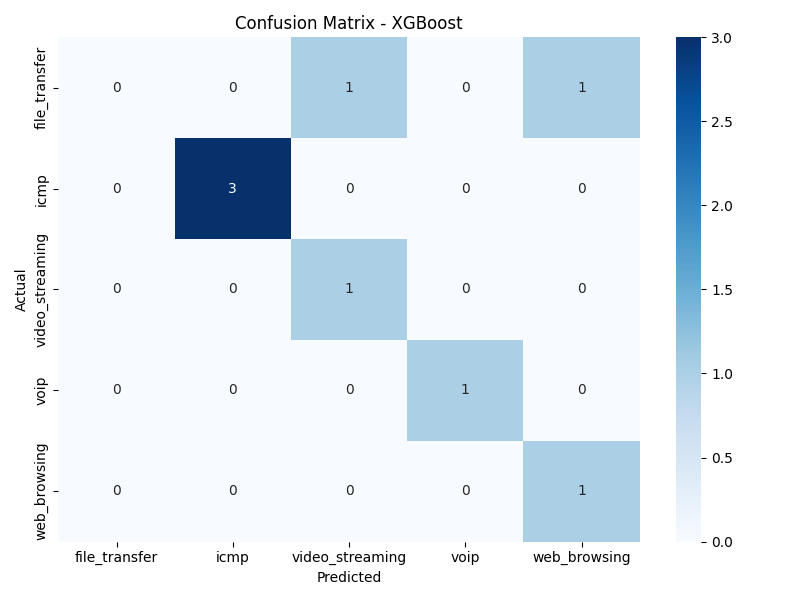
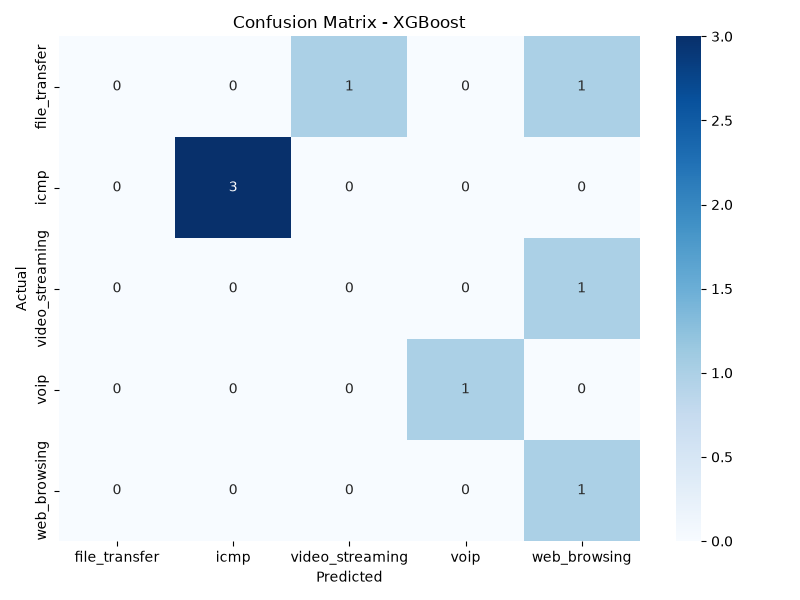
ml-engineer: add predict.py, retrained clean model, updated confusion matrix

diff --git a/ml-engineer/predict.py b/ml-engineer/predict.py
@@ -1,0 +1,200 @@
+"""
+predict.py
+----------
+ML Engineer - SIH 2026 (PS 26160)
+
+Purpose:
+    This is the handoff file for the Backend Developer.
+    Give them this file + the models/ folder.
+    They call predict_from_pcap() or predict_from_features()
+    and get back a traffic class + confidence score.
+
+Usage (Backend Developer calls it like this):
+    from predict import predict_from_pcap
+    result = predict_from_pcap("path/to/capture.pcap")
+    print(result)
+    # Output: {"class": "web_browsing", "confidence": 0.87}
+"""
+
+import joblib
+import pandas as pd
+import statistics
+from collections import defaultdict
+from scapy.all import rdpcap, IP
+import os
+
+# ── Load model and label encoder ─────────────────────────────────────────────
+MODEL_PATH = os.path.join(os.path.dirname(__file__), "models", "traffic_classifier.pkl")
+ENCODER_PATH = os.path.join(os.path.dirname(__file__), "models", "label_encoder.pkl")
+
+model = joblib.load(MODEL_PATH)
+le = joblib.load(ENCODER_PATH)
+
+FEATURE_COLS = [
+    'packet_count', 'total_bytes', 'duration_sec', 'bytes_per_sec',
+    'mean_size', 'std_size', 'min_size', 'max_size',
+    'mean_inter_arrival', 'std_inter_arrival',
+    'fwd_packet_ratio', 'bwd_packet_ratio'
+]
+
+
+def extract_flows(pcap_path):
+    """Read pcap and group packets into flows."""
+    packets = rdpcap(pcap_path)
+    flows = defaultdict(list)
+
+    for pkt in packets:
+        if IP not in pkt:
+            continue
+        src = pkt[IP].src
+        dst = pkt[IP].dst
+        size = len(pkt)
+        timestamp = float(pkt.time)
+        flow_key = tuple(sorted([src, dst]))
+        flows[flow_key].append({
+            "src": src,
+            "dst": dst,
+            "size": size,
+            "time": timestamp
+        })
+
+    return flows
+
+
+def compute_features(flow_packets):
+    """Compute numeric features for one flow."""
+    if len(flow_packets) < 2:
+        return None
+
+    flow_packets = sorted(flow_packets, key=lambda p: p["time"])
+    sizes = [p["size"] for p in flow_packets]
+    times = [p["time"] for p in flow_packets]
+    inter_arrival = [t2 - t1 for t1, t2 in zip(times[:-1], times[1:])]
+    first_src = flow_packets[0]["src"]
+    fwd_count = sum(1 for p in flow_packets if p["src"] == first_src)
+    bwd_count = len(flow_packets) - fwd_count
+    duration = times[-1] - times[0] if len(times) > 1 else 0.0001
+    total_bytes = sum(sizes)
+
+    return {
+        'packet_count': len(flow_packets),
+        'total_bytes': total_bytes,
+        'duration_sec': duration,
+        'bytes_per_sec': total_bytes / duration if duration > 0 else 0,
+        'mean_size': statistics.mean(sizes),
+        'std_size': statistics.stdev(sizes) if len(sizes) > 1 else 0,
+        'min_size': min(sizes),
+        'max_size': max(sizes),
+        'mean_inter_arrival': statistics.mean(inter_arrival) if inter_arrival else 0,
+        'std_inter_arrival': statistics.stdev(inter_arrival) if len(inter_arrival) > 1 else 0,
+        'fwd_packet_ratio': fwd_count / len(flow_packets),
+        'bwd_packet_ratio': bwd_count / len(flow_packets),
+    }
+
+
+def predict_from_pcap(pcap_path):
+    """
+    Main function for Backend Developer to call.
+    
+    Input:  path to a .pcap file (string)
+    Output: dict with predicted class and confidence score
+    
+    Example:
+        result = predict_from_pcap("capture.pcap")
+        # {"class": "web_browsing", "confidence": 0.87}
+    """
+    flows = extract_flows(pcap_path)
+
+    if not flows:
+        return {"class": "unknown", "confidence": 0.0, "error": "No IP flows found in pcap"}
+
+    # Compute features for all flows
+    all_features = []
+    for flow_key, packets in flows.items():
+        feats = compute_features(packets)
+        if feats:
+            all_features.append(feats)
+
+    if not all_features:
+        return {"class": "unknown", "confidence": 0.0, "error": "Flows too short to extract features"}
+
+    # Predict each flow and pick the most common prediction
+    df = pd.DataFrame(all_features)[FEATURE_COLS]
+    predictions = model.predict(df)
+    probabilities = model.predict_proba(df)
+
+    # Find most common predicted class across all flows
+    from collections import Counter
+    most_common_encoded = Counter(predictions).most_common(1)[0][0]
+
+    # Get average confidence for the most common class
+    class_index = list(model.classes_).index(most_common_encoded)
+    avg_confidence = float(probabilities[:, class_index].mean())
+
+    predicted_class = le.inverse_transform([most_common_encoded])[0]
+
+    return {
+        "class": predicted_class,
+        "confidence": round(avg_confidence, 4),
+        "flows_analyzed": len(all_features)
+    }
+
+
+def predict_from_features(feature_dict):
+    """
+    Alternative function — Backend Developer can call this
+    if they already have extracted features (no pcap needed).
+    
+    Input:  dict with all 12 feature keys
+    Output: dict with predicted class and confidence score
+    
+    Example:
+        result = predict_from_features({
+            "packet_count": 42,
+            "total_bytes": 5000,
+            ... (all 12 features)
+        })
+    """
+    df = pd.DataFrame([feature_dict])[FEATURE_COLS]
+    prediction = model.predict(df)[0]
+    probabilities = model.predict_proba(df)[0]
+    confidence = float(probabilities.max())
+    predicted_class = le.inverse_transform([prediction])[0]
+
+    return {
+        "class": predicted_class,
+        "confidence": round(confidence, 4)
+    }
+
+
+# ── Quick test when run directly ──────────────────────────────────────────────
+if __name__ == "__main__":
+    import sys
+
+    if len(sys.argv) < 2:
+        print("Usage: python predict.py <path_to_pcap>")
+        print("\nRunning self-test with dummy features...")
+
+        # Test predict_from_features with a dummy row
+        test_features = {
+            'packet_count': 50,
+            'total_bytes': 25000,
+            'duration_sec': 5.0,
+            'bytes_per_sec': 5000,
+            'mean_size': 500,
+            'std_size': 100,
+            'min_size': 64,
+            'max_size': 1400,
+            'mean_inter_arrival': 0.1,
+            'std_inter_arrival': 0.05,
+            'fwd_packet_ratio': 0.6,
+            'bwd_packet_ratio': 0.4
+        }
+        result = predict_from_features(test_features)
+        print(f"Self-test result: {result}")
+
+    else:
+        pcap_path = sys.argv[1]
+        print(f"Predicting traffic type for: {pcap_path}")
+        result = predict_from_pcap(pcap_path)
+        print(f"Result: {result}")
